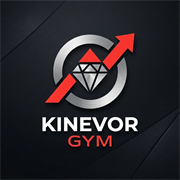
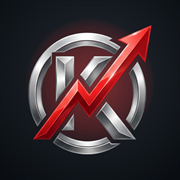
Refresh Kinevor brand mark across docs and demo sites (#10)
Replace the legacy diamond logo with the metallic K/arrow emblem across the README, public-site and identity demos, and check-ins favicon.

diff --git a/kinevor-public-site/web/projects/demo/src/index.html b/kinevor-public-site/web/projects/demo/src/index.html
@@ -12,7 +12,8 @@
     >
     <meta name="robots" content="index, follow">
     <link rel="canonical" href="/">
-    <link rel="icon" type="image/svg+xml" href="favicon.svg">
+    <link rel="icon" href="favicon.ico" sizes="any">
+    <link rel="icon" type="image/png" sizes="64x64" href="favicon.png">
     <link rel="apple-touch-icon" href="apple-touch-icon.png">
     <link rel="manifest" href="site.webmanifest">
     <link rel="preload" href="fonts/Sora-Variable.ttf" as="font" type="font/ttf" crossorigin>

diff --git a/kinevor-checkins-access/web/projects/demo/src/index.html b/kinevor-checkins-access/web/projects/demo/src/index.html
@@ -10,7 +10,8 @@
       content="Kinevor Access demo: member eligibility, check-in, live occupancy and visit history."
     />
     <meta name="theme-color" content="#111317" />
-    <link rel="icon" type="image/svg+xml" href="favicon.svg" />
+    <link rel="icon" href="favicon.ico" sizes="any" />
+    <link rel="icon" type="image/png" sizes="64x64" href="favicon.png" />
     <script src="config.js"></script>
   </head>
   <body>

diff --git a/CHANGELOG.md b/CHANGELOG.md
@@ -3,6 +3,14 @@
 All notable changes to Kinevor are documented here. The repository uses a single
 `0.x` line while the platform contracts and module packages evolve together.
 
+## Unreleased
+
+### Changed
+
+- Refreshed the Kinevor brand mark across the README, public-site demo, identity
+  demo and check-ins favicon with the metallic K/arrow emblem. Source masters
+  live in `docs/branding/`.
+
 ## 0.2.0 — 2026-11-07
 
 A hardening and showcase release: the ten services keep their independent
